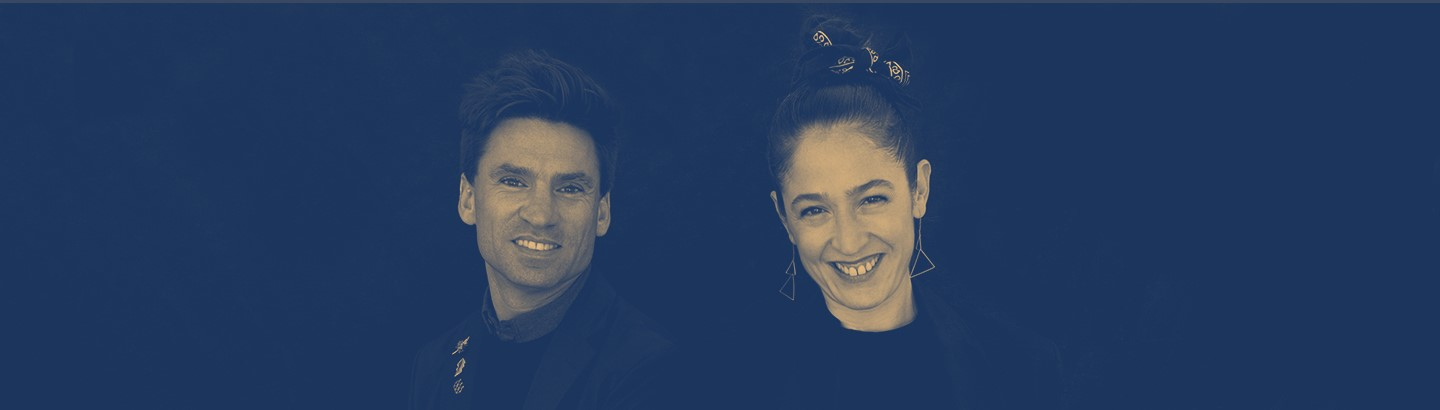
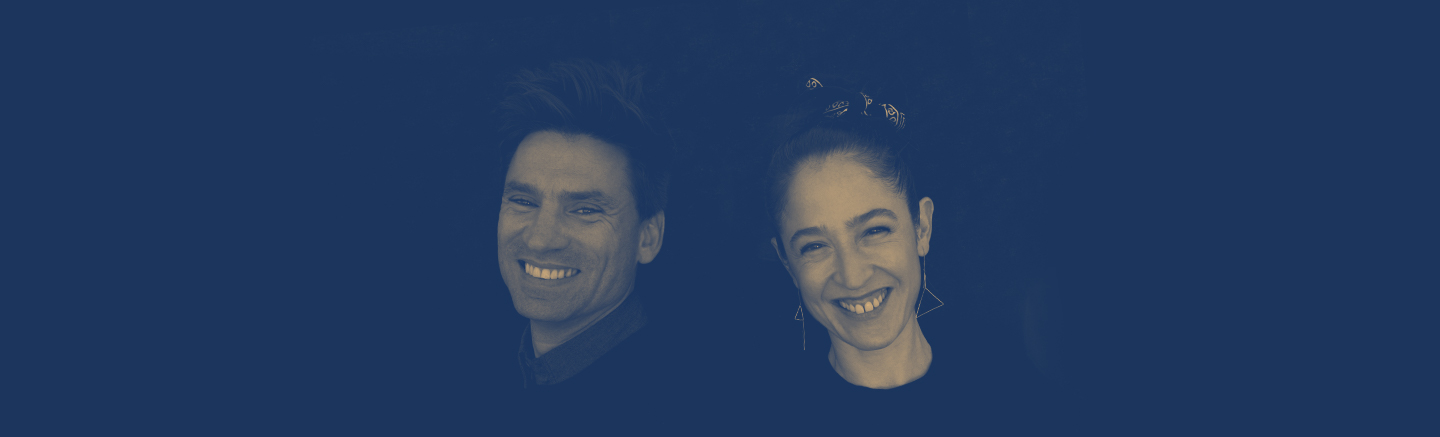
prev

diff --git a/src/_modules/header/header.scss b/src/_modules/header/header.scss
@@ -1,39 +1,41 @@
 .header {
-
+    
     $h: &;
-
+    
     background: $blue;
     position: fixed;
     width: 100%;
     z-index: 1000;
-
+    border-bottom: 1px solid rgba(255,255,255,.3);
+    
     @include mq(md) {
-        position: relative;
+        position: absolute;
     }
-
+    
     &__container {
         display: flex;
-        height: 16vh;
-        padding: 3vh 0;
         justify-content: space-between;
         align-items: center;
     }    
-
+    
     &__logo {
         position: relative;
         min-width: 100px;
-        height: 5vh;
+        height: 50px;
+        padding: 15px 30px 15px 15px;
+        border-right: 1px solid rgba(255,255,255,.3);
+        display: flex;
+        justify-content: flex-start;
         z-index: 2000;
+        align-items: center;
+
         @include mq(md) {
-            height: 10vh;
+            height: 100px;
+            padding: 30px 50px 30px 0;
         }
 
         img {
-            position: absolute;
-            top: 50%;
-            transform: translateY(-50%);
-            height: 50%;
-            width: auto;
+            height: 100%;
         }
     }
 
@@ -118,14 +120,23 @@
     }
 
     &__select {
-        background: $blue;
[1 lines of base64/hex data omitted]
         color: $gold;
         border: none;
         text-transform: uppercase;
         margin-right: 20px;
         font-family: $titleFont;
-        font-weight: 500; 
-}
+        font-weight: 500;
+        width: 40px;
+        height: 30px;
+        appearance: none;
+        position: relative;
+
+        &:focus {
+            outline: none;
+            box-shadow: none;
+        }
+    }
 
     &__hamburguer {
         cursor: pointer;

diff --git a/src/_styles/pages/restaurant.scss b/src/_styles/pages/restaurant.scss
@@ -1,9 +1,9 @@
 .restaurant {
-    padding-top: 16vh;
+    padding-top: 50px;
     overflow: hidden;
     
     @include mq(md) {
-        padding-top: 0;
+        padding-top: 100px;
     }
     
     &__hero {
@@ -11,6 +11,11 @@
         height: 40vh;
         overflow: hidden;
         z-index: 5;
+        background: $mainColor;
+
+        @include mq(md) {
+            height: 60vh;
+        }
 
         img {
             position: absolute;
@@ -18,33 +23,33 @@
             left: 50%;
             z-index: -1;
             transform: translateX(-50%);
+            height: 110%;
         }
 
         &__title {
-            position: absolute;
-            top: 50%;
-            left: 50%;
-            transform: translate3d(-50%, -50%, 0);
-            margin: 0;
-            color: $white;
+            margin: 50px 0;
+            color: $mainColor;
             text-transform: uppercase;
             white-space: nowrap;
+            text-align: center;
+            font-size: 36px;
 
             @include mq(md) {
                 font-size: 80px;
-
+                margin: 0 0 5%;
             }
         }
     }
 
     &__content {
         position: relative;
-        padding-top: 40px;
+        padding-top: 5%;
+        padding-bottom: 5%;
 
         .container {
             
             @include mq(md) {
-                height: 50vh;
+                min-height: 50vh;
             }
         }
 
@@ -91,8 +96,7 @@
             line-height: 1.5;
 
             @include mq(md) {
-                padding-top: 15vh;
-                margin-bottom: 0;
+                margin-bottom: 20px;
             }
 
             &--bold {
@@ -131,7 +135,7 @@
             font-size: 18px;
 
             @include mq(md) {
-                padding-top: 15vh;
+                padding-top: 10%;
             }
         }
     }

diff --git a/src/_styles/pages/carta.scss b/src/_styles/pages/carta.scss
@@ -1,23 +1,18 @@
 .carta {
     background: $blue;
-    padding-top: 16vh;
-    overflow: hidden;
-
-    @include mq(md) {
-        padding-top: 0;
-        height: 84vh;
-    }
+    display: flex;
+    align-items: center;
+    min-height: 100vh;
 
     .container {
         position: relative;
     }
     
     &__container {
-        padding-top: 5vh;
+        padding-top: 80px;
         padding-bottom: 170px;
 
         @include mq(md) {
-            height: 84vh;
             padding-bottom: 0;
         }
     }
@@ -96,6 +91,7 @@
         background: transparent;
         line-height: 80px;
         text-transform: uppercase;
+        cursor: pointer;
     }
 
     &__subtitle {
@@ -135,6 +131,7 @@
         border-bottom: 3px solid $gold;
         opacity: 0;
         overflow: hidden;
+        cursor: pointer;
     }
 
     &.-active {
@@ -164,7 +161,7 @@
     @include mq(md) {
         display: block;
         position: absolute;
-        bottom: 10%;
+        bottom: -50px;
         left: 50%;
         transform: translateX(-50%);
         display: flex;
@@ -207,6 +204,7 @@
     width: 20px;
     margin-left: auto;
     opacity: 0;
+    cursor: pointer;
 
     &.-active {
         opacity: 1;

diff --git a/src/_styles/pages/informacion.scss b/src/_styles/pages/informacion.scss
@@ -1,9 +1,9 @@
 .informacion {
-    height: 84vh;
     position: relative;
-    padding-top: 16vh;
-
+    padding-top: 50px;
+    
     @include mq(md) {
+        height: 84vh;
         padding-top: 0;
 
     }
@@ -86,7 +86,20 @@
             height: 100%;
             border: 0;        
             opacity: .9;
+            mix-blend-mode: screen;
+            filter: grayscale(100%);
+        }
+
+        &:after {
+            position: absolute;
+            content: '';
+            top:0;
+            left: 0;
+            right: 0;
+            bottom: 0;
+            background: $blue;
             mix-blend-mode: multiply;
+            opacity: .7;
         }
 
         img {
@@ -94,6 +107,7 @@
             left: 50%;
             top: 50%;
             transform: translate3d(-50%, -50%, 0);
+            z-index: 100;
         }
     }
 }

diff --git a/src/_scripts/main.js b/src/_scripts/main.js
@@ -3,15 +3,15 @@
 
 'use strict';
 
-global.$ = global.jQuery = require('jquery');
-global._ = require('underscore');
+global.$ = global.jQuery;
+//global._ = require('underscore');
 var Header = require('../_modules/header/header');
 var Slider = require('../_modules/slider/slider');
 var Carta = require('./carta');
 var Reserva = require('./reserva');
 
 $(function() {
-    require('../../bower_components/slick-carousel/slick/slick');
+    //require('../../bower_components/slick-carousel/slick/slick');
 
     new Header();
     new Slider();

diff --git a/src/_styles/pages/_home.scss b/src/_styles/pages/_home.scss
@@ -1,14 +1,9 @@
 .home {
     overflow: hidden;
     background: $blue;
-    padding-top: 16vh;
-
-    @include mq(md) {
-        padding-top: 0;
-    }
     
     &__container {
-        height: 84vh;
+        height: 100vh;
         position: relative;
     }
     
